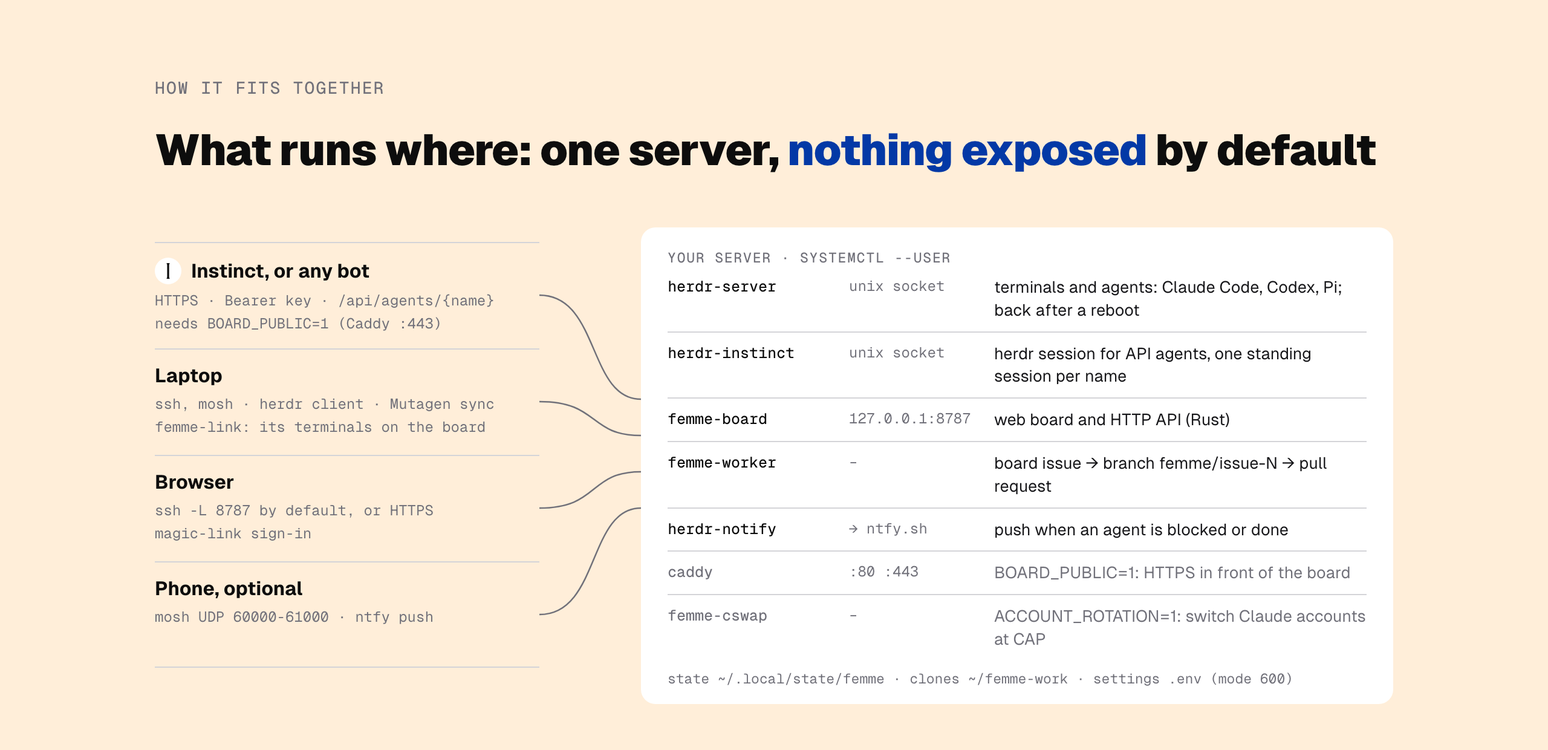
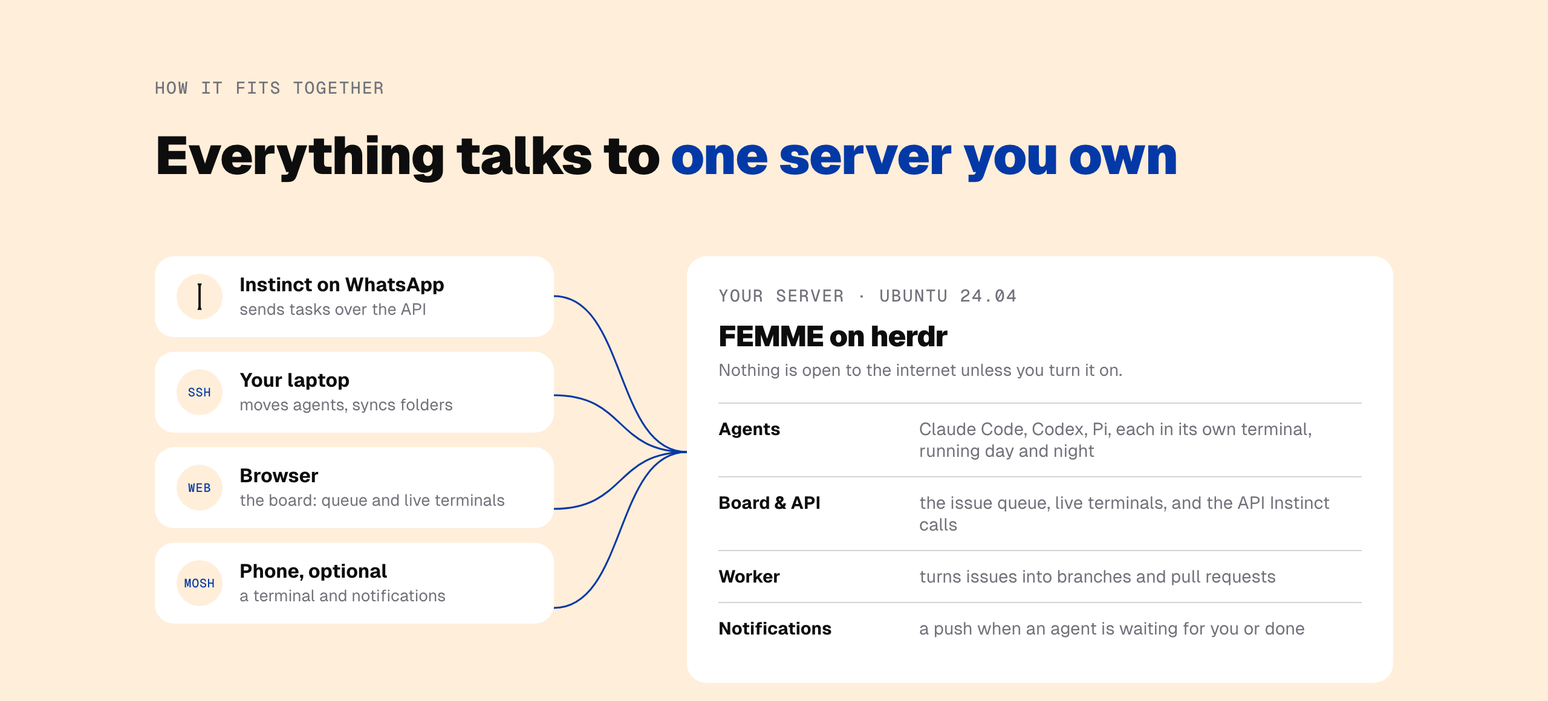
Visuals: the showcase style back, in the brand palette, every card saying something true
Cream only, white cards, one blue accent, the blue left bar. The banner
shows what the board looks like with agents running; the Instinct image
walks through a WhatsApp task to its yes; feature cards and install
steps state what FEMME actually does, without JSON or ports.

Changed region(s): [[0.0938, 0.0931, 0.9062, 0.9931], [0.1562, 0.0931, 0.25, 0.1552]]

diff --git a/assets/src/architecture.html b/assets/src/architecture.html
@@ -1,43 +1,34 @@
 <!doctype html><html><head><meta charset="utf-8"><link rel="stylesheet" href="theme.css"><script>const q=new URLSearchParams(location.search);document.documentElement.dataset.theme=q.get("theme")||"light"</script><style>
-:root{--w:1280px;--h:620px}
+:root{--w:1280px;--h:580px}
 .top{position:absolute;left:var(--edge);top:64px}
-h2{font-size:36px}
-.cl{position:absolute;left:var(--edge);top:200px;width:318px}
-.cl .row{height:88px;padding-top:12px;border-top:1px solid var(--rule)}
-.cl b{font-size:16px;font-weight:700;display:flex;align-items:center;gap:8px}
-.av{width:22px;height:22px;border-radius:50%;background:var(--panel);display:grid;place-items:center}.av .instinct{height:13px}
-.cl .p{font-family:GeistMono;font-size:12px;color:var(--muted);line-height:1.6;margin-top:4px}
-svg{position:absolute;left:446px;top:200px;width:84px;height:352px}
-.srv{position:absolute;left:530px;right:var(--edge);top:188px;padding:4px 22px 14px}
-table{width:100%;border-collapse:collapse;font-size:13.5px}
-td{padding:8px 0;border-top:1px solid var(--rule);vertical-align:top;line-height:1.4}
-tr:first-child td{border-top:0}
-td:nth-child(1){font-family:GeistMono;font-size:12.5px;color:var(--fg);width:150px;font-weight:500}
-td:nth-child(2){font-family:GeistMono;font-size:12px;color:var(--muted);width:120px}
-td:nth-child(3){color:var(--text)}
-tr.opt td{color:var(--muted)} tr.opt td:first-child{color:var(--muted)}
-.foot{font-family:GeistMono;font-size:11.5px;color:var(--muted);margin-top:8px}
+h2{font-size:44px}
+.ins{position:absolute;left:var(--edge);top:212px;width:330px;display:grid;gap:12px}
+.in{padding:14px 18px;display:flex;gap:14px;align-items:center}
+.av{width:38px;height:38px;border-radius:50%;background:var(--bg);display:grid;place-items:center;flex:none;font-family:GeistMono;font-size:10px;letter-spacing:.04em;color:var(--accent);font-weight:500}.av .instinct{height:22px}
+.in b{display:block;font-size:16px;font-weight:700}.in span{font-size:13.5px;color:var(--muted)}
+svg{position:absolute;left:458px;top:212px;width:110px;height:324px}
+.srv{position:absolute;left:568px;right:var(--edge);top:212px;padding:24px 26px}
+.srv h3{font-size:24px;font-weight:900;letter-spacing:-.02em}
+.srv .note{font-size:14px;color:var(--muted);margin-top:4px}
+.row{display:grid;grid-template-columns:150px 1fr;gap:16px;padding:12px 0;border-top:1px solid var(--rule);font-size:14.5px}
+.note+.row{margin-top:18px}
+.row b{font-weight:600}.row span{color:var(--muted)}
 </style></head><body>
-<div class="top"><div class="kicker">How it fits together</div><h2>What runs where: one server, <span class="accent">nothing exposed</span> by default</h2></div>
-<div class="cl">
- <div class="row"><b><span class="av"><img class="instinct"></span>Instinct, or any bot</b><div class="p">HTTPS · Bearer key · /api/agents/{name}<br>needs BOARD_PUBLIC=1 (Caddy :443)</div></div>
- <div class="row"><b>Laptop</b><div class="p">ssh, mosh · herdr client · Mutagen sync<br>femme-link: its terminals on the board</div></div>
- <div class="row"><b>Browser</b><div class="p">ssh -L 8787 by default, or HTTPS<br>magic-link sign-in</div></div>
- <div class="row" style="border-bottom:1px solid var(--rule)"><b>Phone, optional</b><div class="p">mosh UDP 60000-61000 · ntfy push</div></div>
+<div class="top"><div class="kicker">How it fits together</div><h2>Everything talks to <span class="accent">one server you own</span></h2></div>
+<div class="ins">
+ <div class="card in"><div class="av"><img class="instinct"></div><div><b>Instinct on WhatsApp</b><span>sends tasks over the API</span></div></div>
+ <div class="card in"><div class="av">SSH</div><div><b>Your laptop</b><span>moves agents, syncs folders</span></div></div>
+ <div class="card in"><div class="av">WEB</div><div><b>Browser</b><span>the board: queue and live terminals</span></div></div>
+ <div class="card in"><div class="av">MOSH</div><div><b>Phone, optional</b><span>a terminal and notifications</span></div></div>
 </div>
-<svg viewBox="0 0 84 352" fill="none" stroke-width="1.25" style="stroke:var(--muted)">
- <path d="M0 44 C50 44 40 130 84 130"/><path d="M0 132 C50 132 40 160 84 160"/>
- <path d="M0 220 C50 220 40 190 84 190"/><path d="M0 308 C50 308 40 220 84 220"/>
+<svg viewBox="0 0 110 324" fill="none" stroke-width="1.5" style="stroke:var(--accent)">
+ <path d="M0 33 C60 33 50 162 110 162"/><path d="M0 115 C60 115 50 162 110 162"/>
+ <path d="M0 209 C60 209 50 162 110 162"/><path d="M0 291 C60 291 50 162 110 162"/>
 </svg>
-<div class="panel srv"><div class="cap" style="padding-left:0">Your server · systemctl --user</div>
-<table>
- <tr><td>herdr-server</td><td>unix socket</td><td>terminals and agents: Claude Code, Codex, Pi; back after a reboot</td></tr>
- <tr><td>herdr-instinct</td><td>unix socket</td><td>herdr session for API agents, one standing session per name</td></tr>
- <tr><td>femme-board</td><td>127.0.0.1:8787</td><td>web board and HTTP API (Rust)</td></tr>
- <tr><td>femme-worker</td><td>–</td><td>board issue → branch femme/issue-N → pull request</td></tr>
- <tr><td>herdr-notify</td><td>→ ntfy.sh</td><td>push when an agent is blocked or done</td></tr>
- <tr class="opt"><td>caddy</td><td>:80 :443</td><td>BOARD_PUBLIC=1: HTTPS in front of the board</td></tr>
- <tr class="opt"><td>femme-cswap</td><td>–</td><td>ACCOUNT_ROTATION=1: switch Claude accounts at CAP</td></tr>
-</table>
-<div class="foot">state ~/.local/state/femme · clones ~/femme-work · settings .env (mode 600)</div></div>
+<div class="card srv"><div class="kicker">Your server · Ubuntu 24.04</div><h3 style="margin-top:10px">FEMME on herdr</h3><div class="note">Nothing is open to the internet unless you turn it on.</div>
+ <div class="row"><b>Agents</b><span>Claude Code, Codex, Pi, each in its own terminal, running day and night</span></div>
+ <div class="row"><b>Board &amp; API</b><span>the issue queue, live terminals, and the API Instinct calls</span></div>
+ <div class="row"><b>Worker</b><span>turns issues into branches and pull requests</span></div>
+ <div class="row"><b>Notifications</b><span>a push when an agent is waiting for you or done</span></div>
+</div>
 </body></html>

diff --git a/assets/src/instinct.html b/assets/src/instinct.html
@@ -1,34 +1,39 @@
 <!doctype html><html><head><meta charset="utf-8"><link rel="stylesheet" href="theme.css"><script>const q=new URLSearchParams(location.search);document.documentElement.dataset.theme=q.get("theme")||"light"</script><style>
-:root{--w:1280px;--h:640px}
-.top{position:absolute;left:var(--edge);top:64px}
-h2{font-size:36px}
-.grid{position:absolute;left:var(--edge);right:var(--edge);top:200px;display:grid;grid-template-columns:372px 1fr;column-gap:44px;row-gap:16px}
-.colh{font-family:GeistMono;font-weight:500;font-size:11.5px;letter-spacing:.08em;text-transform:uppercase;color:var(--muted);display:flex;align-items:center;gap:10px;padding-bottom:4px}
-.av{width:26px;height:26px;border-radius:50%;background:var(--panel);display:grid;place-items:center;flex:none}.av .instinct{height:15px}
-.b{max-width:94%;padding:9px 13px;border-radius:12px;font-size:14.5px;line-height:1.4;align-self:start}
-.me{justify-self:end;background:var(--fg);color:var(--bg)}
-.them{justify-self:start;background:var(--panel);color:var(--fg);display:flex;gap:10px}
-.them .av{width:28px;height:28px;background:var(--bg)}
-.them ul{margin:4px 0 0 16px}
-.t{font-family:GeistMono;font-size:10.5px;opacity:.6;margin-left:8px}
-.http{font-family:GeistMono;font-size:12.5px;line-height:1.6;color:var(--text);align-self:start}
-.http .m{color:var(--fg);font-weight:500}
-.http .c{color:var(--muted)}
+:root{--w:1280px;--h:660px}
+.phone{position:absolute;left:var(--edge);top:64px;width:400px;height:532px;border-radius:30px;overflow:hidden;display:flex;flex-direction:column}
+.top{display:flex;align-items:center;gap:12px;padding:16px 18px;border-bottom:1px solid var(--rule)}
+.av{width:38px;height:38px;border-radius:50%;background:var(--bg);display:grid;place-items:center;flex:none}.av .instinct{height:22px}
+.who b{display:block;font-size:16px;font-weight:700}.who span{font-size:12.5px;color:var(--muted)}
+.chat{flex:1;padding:16px;display:flex;flex-direction:column;gap:9px;font-size:14.5px;line-height:1.38;background:var(--bg)}
+.b{max-width:86%;padding:9px 12px;border-radius:14px}
+.me{align-self:flex-end;background:var(--accent);color:#fff;border-bottom-right-radius:4px}
+.them{align-self:flex-start;background:var(--panel);color:var(--fg);border-bottom-left-radius:4px}
+.them ul{margin:5px 0 0 17px}.them li{margin:1px 0}
+.t{display:block;text-align:right;font-family:GeistMono;font-size:10px;opacity:.6;margin-top:3px}
+.side{position:absolute;left:592px;right:var(--edge);top:82px}
+h2{font-size:42px}
+.steps{margin-top:34px;display:grid;gap:20px}
+.s{border-left:4px solid var(--accent);padding-left:18px}
+.s b{font-size:19px;font-weight:700;letter-spacing:-.01em}
+.s p{font-size:15.5px;color:var(--muted);margin-top:4px;line-height:1.45}
 </style></head><body>
-<div class="top"><div class="kicker">Example · Instinct on WhatsApp</div><h2>What each message does on your <span class="accent">server</span></h2></div>
-<div class="grid">
- <div class="colh"><span class="av"><img class="instinct"></span>Instinct · WhatsApp</div><div class="colh">FEMME API · your server</div>
-
- <div class="b me">Fix the signup form in example-org/app<span class="t">09:41</span></div>
- <div class="http sig"><span class="m">POST /api/agents/instinct</span>  {"text":"Fix the signup…","repo":"example-org/app"}<br><span class="c">clones to ~/femme-work/instinct, starts Claude Code in herdr</span><br>200 {"pane_id":"instinct~w3:p1","status":"working"}</div>
-
- <div class="b them"><span class="av"><img class="instinct"></span><div>Claude is on it.<span class="t">09:41</span></div></div>
- <div class="http sig"><span class="m">GET /api/agents/instinct</span>  <span class="c">polled while it works</span><br>200 {"status":"working","screen":"…"}</div>
-
- <div class="b them"><span class="av"><img class="instinct"></span><div><b>Signup works again.</b><ul><li>Email check runs before sending</li><li>Tests pass</li><li>Not pushed yet: yes or no?</li></ul><span class="t">09:58</span></div></div>
- <div class="http sig"><span class="m">GET /api/agents/instinct</span><br>200 {"status":"idle","pushed":false,"report":"Signup works again. …",<br>     "message":"changes ready, not pushed to main: read the report, then …"}<br><span class="c">report: Claude's plain-words summary, ~/.local/state/femme/report-instinct.md</span></div>
-
- <div class="b me">yes<span class="t">10:02</span></div>
- <div class="http sig"><span class="m">POST /api/agents/instinct/push</span><br><span class="c">Claude commits the task as one commit and pushes to main. "no" → /discard</span></div>
+<div class="card phone">
+ <div class="top"><div class="av"><img class="instinct"></div><div class="who"><b>Instinct</b><span>WhatsApp · runs your agents through FEMME</span></div></div>
+ <div class="chat">
+  <div class="b me">Fix the signup form in example-org/app<span class="t">09:41</span></div>
+  <div class="b them">On it. Claude is working on your server.<span class="t">09:41</span></div>
+  <div class="b them"><b>The signup form works again.</b><ul><li>Emails are checked before sending</li><li>All tests pass</li><li>Nothing pushed yet. Push it?</li></ul><span class="t">09:58</span></div>
+  <div class="b me">yes<span class="t">10:02</span></div>
+  <div class="b them">Pushed to main as one commit.<span class="t">10:02</span></div>
+ </div>
+</div>
+<div class="side"><div class="kicker">Example · Instinct on WhatsApp</div>
+ <h2>Text a task.<br><span class="accent">It ships when you say yes.</span></h2>
+ <div class="steps">
+  <div class="s"><b>You write one sentence on WhatsApp</b><p>Which repo, what to change. No laptop, no terminal.</p></div>
+  <div class="s"><b>Claude Code does it on your server</b><p>Instinct hands the task to FEMME; Claude makes the change and runs the tests.</p></div>
+  <div class="s"><b>You get five lines, not a diff</b><p>What changed for you, what was checked, what needs your decision.</p></div>
+  <div class="s"><b>Yes pushes, no throws it away</b><p>Until you answer, your repo is untouched.</p></div>
+ </div>
 </div>
 </body></html>

diff --git a/assets/src/social.html b/assets/src/social.html
@@ -1,26 +1,26 @@
 <!doctype html><html><head><meta charset="utf-8"><link rel="stylesheet" href="theme.css"><script>const q=new URLSearchParams(location.search);document.documentElement.dataset.theme=q.get("theme")||"light"</script><style>
 :root{--w:1280px;--h:640px}
-.l{position:absolute;left:var(--edge);top:152px;width:356px}
-h1{font-size:64px}
-.d{margin-top:28px;font-size:17px;line-height:1.5;color:var(--text)}
-.d b{font-weight:600;color:var(--fg)}
-.facts{margin-top:28px;font-family:GeistMono;font-size:12.5px;line-height:1.9;color:var(--muted)}
-.panel{position:absolute;left:536px;right:var(--edge);top:152px}
+.l{position:absolute;left:var(--edge);top:156px;width:470px}
+h1{font-size:104px}
+.sub{margin-top:26px;font-size:27px;font-weight:500;line-height:1.25;letter-spacing:-.01em;color:var(--text)}
+.sub b{font-weight:700;color:var(--accent)}
+.meta{margin-top:30px;font-family:GeistMono;font-size:13px;color:var(--muted);line-height:1.8}
+.board{position:absolute;right:var(--edge);top:156px;width:420px;padding:20px 22px}
+.board .cap{font-family:GeistMono;font-weight:500;font-size:11.5px;letter-spacing:.08em;text-transform:uppercase;color:var(--muted);display:flex;justify-content:space-between}
+.item{display:grid;grid-template-columns:1fr auto;gap:4px 12px;padding:13px 0;border-top:1px solid var(--rule)}
+.item:first-of-type{border-top:0}
+.item b{font-size:16px;font-weight:600}
+.item span{font-size:13.5px;color:var(--muted);grid-column:1}
+.st{grid-row:1/3;grid-column:2;align-self:center;font-family:GeistMono;font-size:11.5px;letter-spacing:.06em;text-transform:uppercase;padding:5px 9px;border-radius:999px;background:var(--bg);color:var(--text)}
+.st.you{background:var(--accent);color:#fff}
 </style></head><body>
 <div class="l"><div class="kicker">Open source · by Exposure</div><h1>FEMME</h1>
-<div class="d sig">Keeps <b>Claude Code, Codex and Pi</b> running under herdr on your own Ubuntu server, so they keep working while your laptop sleeps. Hand them tasks from the terminal, a web board or an HTTP API.</div>
-<div class="facts">laptop  · Linux or macOS<br>server  · Ubuntu 24.04, x86_64 or arm64<br>license · Apache-2.0</div></div>
-<div class="panel"><div class="cap">A bot hands FEMME a task</div><pre><span class="p">$</span> curl -X POST $FEMME/api/agents/instinct \
-    -H "Authorization: Bearer $KEY" \
-    -H "Content-Type: application/json" \
-    -d '{"text":"fix the signup form","repo":"example-org/app"}'
-{"pane_id":"instinct~w3:p1","status":"working"}
-
-<span class="p">$</span> curl -H "Authorization: Bearer $KEY" $FEMME/api/agents/instinct \
-    | jq .message
-<span class="a">"changes ready, not pushed to main: read the report,</span>
-<span class="a"> then POST /api/agents/instinct/push or /discard"</span>
-
-<span class="p">$</span> curl -X POST $FEMME/api/agents/instinct/push <span class="c">...</span>
-<span class="c"># Claude commits the task as one commit and pushes to main</span></pre></div>
+<div class="sub">Your coding agents keep working <b>after you close the laptop.</b></div>
+<div class="meta">Claude Code · Codex · Pi, on a server you own<br>Tasks from your terminal, a web board or WhatsApp</div></div>
+<div class="card board"><div class="cap"><span>On your server now</span><span>board</span></div>
+ <div class="item" style="margin-top:8px"><b>Fix the signup form</b><span>from Instinct · report ready</span><div class="st you">needs your yes</div></div>
+ <div class="item"><b>#14 Add CSV export</b><span>Claude Code · 18 min</span><div class="st">working</div></div>
+ <div class="item"><b>#12 Upgrade to Node 22</b><span>pull request opened</span><div class="st">PR ready</div></div>
+ <div class="item"><b>refactor-auth</b><span>forked from your laptop</span><div class="st">working</div></div>
+</div>
 </body></html>

diff --git a/assets/src/banner.html b/assets/src/banner.html
@@ -1,26 +1,26 @@
 <!doctype html><html><head><meta charset="utf-8"><link rel="stylesheet" href="theme.css"><script>const q=new URLSearchParams(location.search);document.documentElement.dataset.theme=q.get("theme")||"light"</script><style>
 :root{--w:1280px;--h:480px}
-.l{position:absolute;left:var(--edge);top:72px;width:356px}
-h1{font-size:64px}
-.d{margin-top:28px;font-size:17px;line-height:1.5;color:var(--text)}
-.d b{font-weight:600;color:var(--fg)}
-.facts{margin-top:28px;font-family:GeistMono;font-size:12.5px;line-height:1.9;color:var(--muted)}
-.panel{position:absolute;left:536px;right:var(--edge);top:72px}
+.l{position:absolute;left:var(--edge);top:76px;width:470px}
+h1{font-size:104px}
+.sub{margin-top:26px;font-size:27px;font-weight:500;line-height:1.25;letter-spacing:-.01em;color:var(--text)}
+.sub b{font-weight:700;color:var(--accent)}
+.meta{margin-top:30px;font-family:GeistMono;font-size:13px;color:var(--muted);line-height:1.8}
+.board{position:absolute;right:var(--edge);top:76px;width:420px;padding:20px 22px}
+.board .cap{font-family:GeistMono;font-weight:500;font-size:11.5px;letter-spacing:.08em;text-transform:uppercase;color:var(--muted);display:flex;justify-content:space-between}
+.item{display:grid;grid-template-columns:1fr auto;gap:4px 12px;padding:13px 0;border-top:1px solid var(--rule)}
+.item:first-of-type{border-top:0}
+.item b{font-size:16px;font-weight:600}
+.item span{font-size:13.5px;color:var(--muted);grid-column:1}
+.st{grid-row:1/3;grid-column:2;align-self:center;font-family:GeistMono;font-size:11.5px;letter-spacing:.06em;text-transform:uppercase;padding:5px 9px;border-radius:999px;background:var(--bg);color:var(--text)}
+.st.you{background:var(--accent);color:#fff}
 </style></head><body>
 <div class="l"><div class="kicker">Open source · by Exposure</div><h1>FEMME</h1>
-<div class="d sig">Keeps <b>Claude Code, Codex and Pi</b> running under herdr on your own Ubuntu server, so they keep working while your laptop sleeps. Hand them tasks from the terminal, a web board or an HTTP API.</div>
-<div class="facts">laptop  · Linux or macOS<br>server  · Ubuntu 24.04, x86_64 or arm64<br>license · Apache-2.0</div></div>
-<div class="panel"><div class="cap">A bot hands FEMME a task</div><pre><span class="p">$</span> curl -X POST $FEMME/api/agents/instinct \
-    -H "Authorization: Bearer $KEY" \
-    -H "Content-Type: application/json" \
-    -d '{"text":"fix the signup form","repo":"example-org/app"}'
-{"pane_id":"instinct~w3:p1","status":"working"}
-
-<span class="p">$</span> curl -H "Authorization: Bearer $KEY" $FEMME/api/agents/instinct \
-    | jq .message
-<span class="a">"changes ready, not pushed to main: read the report,</span>
-<span class="a"> then POST /api/agents/instinct/push or /discard"</span>
-
-<span class="p">$</span> curl -X POST $FEMME/api/agents/instinct/push <span class="c">...</span>
-<span class="c"># Claude commits the task as one commit and pushes to main</span></pre></div>
+<div class="sub">Your coding agents keep working <b>after you close the laptop.</b></div>
+<div class="meta">Claude Code · Codex · Pi, on a server you own<br>Tasks from your terminal, a web board or WhatsApp</div></div>
+<div class="card board"><div class="cap"><span>On your server now</span><span>board</span></div>
+ <div class="item" style="margin-top:8px"><b>Fix the signup form</b><span>from Instinct · report ready</span><div class="st you">needs your yes</div></div>
+ <div class="item"><b>#14 Add CSV export</b><span>Claude Code · 18 min</span><div class="st">working</div></div>
+ <div class="item"><b>#12 Upgrade to Node 22</b><span>pull request opened</span><div class="st">PR ready</div></div>
+ <div class="item"><b>refactor-auth</b><span>forked from your laptop</span><div class="st">working</div></div>
+</div>
 </body></html>

diff --git a/assets/src/install.html b/assets/src/install.html
@@ -1,37 +1,18 @@
 <!doctype html><html><head><meta charset="utf-8"><link rel="stylesheet" href="theme.css"><script>const q=new URLSearchParams(location.search);document.documentElement.dataset.theme=q.get("theme")||"light"</script><style>
-:root{--w:1280px;--h:640px}
+:root{--w:1280px;--h:440px}
 .top{position:absolute;left:var(--edge);top:64px}
-h2{font-size:36px}
-.lp{position:absolute;left:var(--edge);top:200px;width:560px}
-.rp{position:absolute;left:712px;right:var(--edge);top:200px}
-pre{font-size:12px}
-.notes{margin-top:22px;display:grid;gap:16px;font-size:14px;line-height:1.5;color:var(--text)}
-.notes b{font-weight:600;color:var(--fg)}
+h2{font-size:44px}
+.row{position:absolute;left:var(--edge);right:var(--edge);top:212px;display:grid;grid-template-columns:repeat(3,1fr);gap:20px}
+.st{padding:24px 24px;height:170px;position:relative}
+.st b{display:block;font-size:20px;font-weight:700;letter-spacing:-.01em;margin-top:10px}
+.st p{font-size:14.5px;color:var(--muted);margin-top:6px;line-height:1.45}
+.st code{position:absolute;left:24px;bottom:20px;font-family:GeistMono;font-size:14px;color:var(--fg)}
+.you{color:var(--fg)}
 </style></head><body>
-<div class="top"><div class="kicker">Install · on your laptop</div><h2>One script asks, prepares, installs and <span class="accent">checks</span></h2></div>
-<div class="panel lp"><div class="cap">./install.sh</div><pre><span class="p">$</span> ./install.sh
-<span class="h">1/5 what this laptop needs</span>
-<span class="h">2/5 settings (.env, readable only by you)</span>
-Where will FEMME run?
-  1) a new AWS instance (needs the AWS CLI signed in; it costs money)
-  2) an Ubuntu 24.04 server you already have (any VPS or a home server ...)
-  3) this machine (Linux only; agents stop when it sleeps)
-1, 2 or 3: 2
-Short name for the server (ssh alias) [agentbox]:
-Use the board (web panel, issue queue, API for other agents)? [Y/n] y
-Must another machine reach the board over the internet (...)? [y/N] y
-<span class="h">3/5 the server</span>
-An account on the server that can sudo, as user@address: root@203.0.113.7
-<span class="h">4/5 installing on agentbox (a few minutes the first time)</span>
-<span class="h">5/5 checking</span></pre></div>
-<div class="rp"><div class="panel"><div class="cap">./doctor.sh · at the end, and any time</div><pre><span class="h">server (agentbox)</span>
-  ok   ssh agentbox
-  ok   herdr-server running
-  ok   femme-board running
-  ok   herdr 0.9.5
-  <span class="a">fix  Claude Code is not signed in on the server</span>
-  <span class="a">     -> ssh agentbox, run claude, then /login</span>
-  ok   services start at boot (linger)</pre></div>
-<div class="notes"><div class="sig"><b>Automatic:</b> your user, key-only SSH, swap, herdr, Claude Code, gh, the board, the systemd services, ~/.ssh/config.</div>
-<div class="sig"><b>You, once:</b> bring the server; sign in on it (claude, then /login; gh auth login). Credentials are never copied.</div></div></div>
+<div class="top"><div class="kicker">Install</div><h2>One command sets it up. <span class="accent">You sign in once.</span></h2></div>
+<div class="row">
+ <div class="card st"><div class="tagline">01 · Automatic</div><b>Answer a few questions</b><p>Your own server or a new AWS one, and which extras to turn on.</p><code>./install.sh</code></div>
+ <div class="card st"><div class="tagline you">02 · You, once</div><b>Sign in to Claude and GitHub</b><p>On the server. FEMME never copies your passwords or tokens.</p><code>claude → /login</code></div>
+ <div class="card st"><div class="tagline">03 · Automatic</div><b>See what is left to fix</b><p>Every check, each problem with the one command that fixes it.</p><code>./doctor.sh</code></div>
+</div>
 </body></html>

diff --git a/assets/src/features.html b/assets/src/features.html
@@ -1,0 +1,18 @@
+<!doctype html><html><head><meta charset="utf-8"><link rel="stylesheet" href="theme.css"><script>const q=new URLSearchParams(location.search);document.documentElement.dataset.theme=q.get("theme")||"light"</script><style>
+:root{--w:1280px;--h:590px}
+.top{position:absolute;left:var(--edge);top:64px}
+h2{font-size:44px}
+.grid{position:absolute;left:var(--edge);right:var(--edge);top:208px;display:grid;grid-template-columns:repeat(2,1fr);gap:20px}
+.f{padding:24px 26px;height:162px}
+.f .tagline{margin-bottom:10px}
+.f b{font-size:21px;font-weight:700;letter-spacing:-.01em}
+.f p{font-size:15px;color:var(--muted);margin-top:6px;line-height:1.45}
+</style></head><body>
+<div class="top"><div class="kicker">What it does</div><h2>Agents that don't stop when <span class="accent">your laptop does</span></h2></div>
+<div class="grid">
+ <div class="card f"><div class="tagline">Lid closed · server rebooted · still running</div><b>Survives sleep and reboots</b><p>Agents run on your server under herdr. After a reboot they come back in the same layout and pick up the same conversation.</p></div>
+ <div class="card f"><div class="tagline">One key: prefix + shift + v</div><b>Move a running agent to the server</b><p>The agent, its conversation and its folder move over. The folder stays in sync both ways, so the work shows up on your laptop.</p></div>
+ <div class="card f"><div class="tagline">Issue in, pull request out</div><b>A queue that turns into PRs</b><p>Add an issue on the board. FEMME gives it a branch and a Claude Code session and opens the pull request. Two at a time by default.</p></div>
+ <div class="card f"><div class="tagline">Notifications when it needs you</div><b>Watch or step in from anywhere</b><p>Live terminals in the browser, a push to your phone when an agent is waiting for you or done.</p></div>
+</div>
+</body></html>

diff --git a/assets/src/theme.css b/assets/src/theme.css
@@ -53,3 +53,7 @@ pre .a { color: var(--accent); font-weight: 500; } /* the one thing that matters
 /* Exposure wordmark: the provided files only, never retyped or boxed. */
 .wordmark { content: url(logo/exposure-wordmark-black.svg); }
 [data-theme=dark] .wordmark { content: url(logo/exposure-wordmark-white.svg); }
+
+/* Showcase cards: white on cream, 16 px radius, no border, no shadow. */
+.card { background: var(--panel); border-radius: 16px; }
+.tagline { font-family: GeistMono; font-weight: 500; font-size: 12px; letter-spacing: .08em; text-transform: uppercase; color: var(--accent); }

diff --git a/README.md b/README.md
@@ -1,7 +1,4 @@
-<picture>
-  <source media="(prefers-color-scheme: dark)" srcset="assets/banner-dark.png">
-  <img alt="FEMME by Exposure: keeps Claude Code, Codex and Pi running under herdr on your own Ubuntu server. Example: a bot sends a task with POST /api/agents/instinct, reads the message, then pushes." src="assets/banner-light.png" width="100%">
-</picture>
+<img alt="FEMME, open source by Exposure: your coding agents keep working after you close the laptop. Claude Code, Codex and Pi on a server you own. The board shows a task from Instinct waiting for your yes, two issues being worked on, and a pull request ready." src="assets/banner-light.png" width="100%">
 
 <p align="center">
   <a href="LICENSE"><img alt="License: Apache-2.0" src="https://img.shields.io/badge/license-Apache--2.0-0339A6?style=flat-square"></a>
@@ -19,23 +16,19 @@ FEMME runs coding agents (Claude Code, Codex, Pi) under [herdr](https://herdr.de
   <a href="#docs">Docs</a>
 </p>
 
+<img alt="What it does: survives sleep and reboots; one key moves a running agent to the server; a queue that turns issues into pull requests; live terminals in the browser and a push to your phone when an agent needs you." src="assets/features-light.png" width="100%">
+
 ## Example: Instinct on WhatsApp
 
 We run FEMME this way. We write to [Instinct](https://instinct.com/) on WhatsApp: "fix the signup form in our repo". Instinct hands the task to FEMME through its API. Claude Code does the work on the server, checks it and writes a short report in plain words. Instinct sends us the report, and nothing is pushed until we answer "yes". No laptop and no terminal needed.
 
-<picture>
-  <source media="(prefers-color-scheme: dark)" srcset="assets/instinct-dark.png">
-  <img alt="Left, a WhatsApp chat with Instinct: fix the signup form, Claude is on it, a short report, yes. Right, the FEMME API call behind each message: POST /api/agents/instinct, GET while it works, GET with the report, POST /push." src="assets/instinct-light.png" width="100%">
-</picture>
+<img alt="Example, Instinct on WhatsApp: you text a task, Claude Code does it on your server, you get a five-line report, and it ships only when you say yes." src="assets/instinct-light.png" width="100%">
 
 Any bot or agent can do the same with an API key: see [API](docs/api.md) and the [minimal client](examples/api-client.sh).
 
 ## What runs where
 
-<picture>
-  <source media="(prefers-color-scheme: dark)" srcset="assets/architecture-dark.png">
-  <img alt="What runs where. Clients: Instinct or any bot over HTTPS, the laptop over ssh and Mutagen, the browser over an ssh tunnel, an optional phone over mosh. Server, systemd user services: herdr-server, herdr-instinct, femme-board on 127.0.0.1:8787, femme-worker, herdr-notify; optional caddy and femme-cswap." src="assets/architecture-light.png" width="100%">
-</picture>
+<img alt="Instinct on WhatsApp, your laptop, the browser and an optional phone all reach one server you own, which runs the agents, the board and API, the worker and notifications. Nothing is open to the internet unless you turn it on." src="assets/architecture-light.png" width="100%">
 
 - **Agents keep running.** herdr runs as a service that starts at boot. Terminals survive SSH drops and lid closes; after a reboot herdr restores the layout and resumes the agents' conversations.
 - **Move an agent to the server.** One key in herdr forks a local agent, with its conversation and folder, onto the server. The folder then stays in two-way sync.
@@ -44,10 +37,7 @@ Any bot or agent can do the same with an API key: see [API](docs/api.md) and the
 
 ## Quick start
 
-<picture>
-  <source media="(prefers-color-scheme: dark)" srcset="assets/install-dark.png">
-  <img alt="./install.sh output: five steps and its questions; ./doctor.sh output with ok lines and one fix: Claude Code is not signed in on the server, ssh agentbox, run claude, then /login." src="assets/install-light.png" width="100%">
-</picture>
+<img alt="Install in three steps: ./install.sh asks a few questions and sets it up; you sign in to Claude and GitHub once; ./doctor.sh shows what is left to fix." src="assets/install-light.png" width="100%">
 
 On your laptop (Linux or macOS):
 
@@ -89,7 +79,4 @@ Agents on the server run without permission prompts, and anything running as you
 
 Apache-2.0, see [LICENSE](LICENSE). FEMME builds on [herdr](https://herdr.dev) and other tools it installs but does not include; see [NOTICE](NOTICE). The Exposure name and logos are trademarks of Exposure and are not covered by the license.
 
-<picture>
-  <source media="(prefers-color-scheme: dark)" srcset="assets/endcard-dark.png">
-  <img alt="exposure. FEMME is built and open-sourced by Exposure, Apache-2.0." src="assets/endcard-light.png" width="100%">
-</picture>
+<img alt="exposure. FEMME is built and open-sourced by Exposure, Apache-2.0." src="assets/endcard-light.png" width="100%">

diff --git a/CONTRIBUTING.md b/CONTRIBUTING.md
@@ -13,7 +13,7 @@ Thanks for helping. One rule shapes everything here: **FEMME stays small.** It i
 
 ## Visuals
 
-The README images are HTML pages in `assets/src/`, set by the Exposure brand kit: flat cream (Ink on dark), Geist Black headlines at -2%, Geist Mono caps kickers, one accent (Exposure Blue, Bright Blue on dark), the 4 px blue bar on the left, white panels with no border or shadow, no gradients or textures. They show real commands and real output, nothing decorative. Each renders in a light and a dark version; GitHub picks the one that matches the reader's theme. To change one, edit its page and run `assets/src/render.sh` (needs Google Chrome). Keep text in images short, and put the same meaning in the image's `alt`.
+The README images are HTML pages in `assets/src/`, set by the Exposure brand kit: flat Academy Cream, Geist Black headlines at -2%, Geist Mono caps kickers, one accent (Exposure Blue), the 4 px blue bar, white cards with no border or shadow, no gradients or textures. Every card says something true about FEMME; no slogans for their own sake. To change one, edit its page and run `assets/src/render.sh` (needs Google Chrome). Keep text in images short, and put the same meaning in the image's `alt`.
 
 ## How the pieces fit
 
